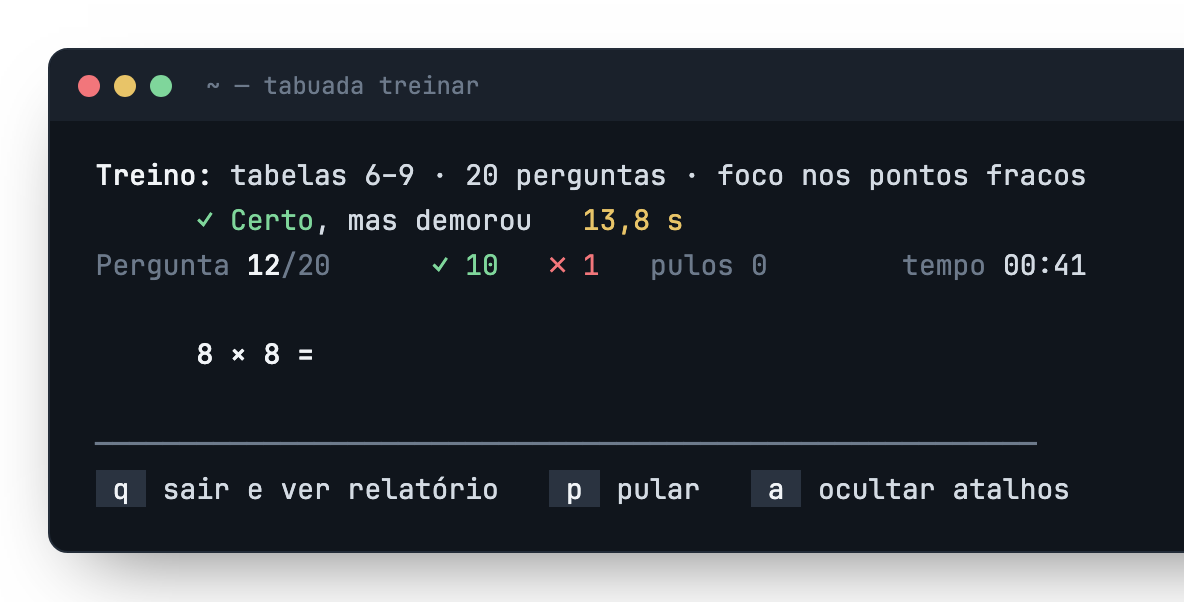
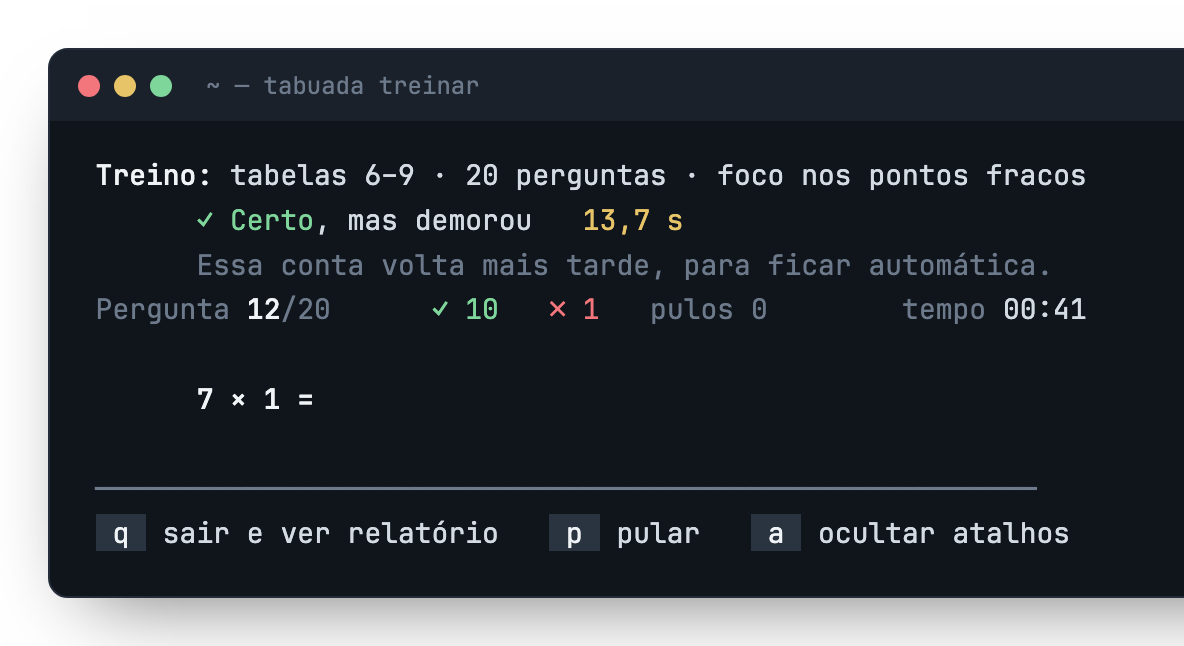
docs: explicar nota por tempo e repetição espaçada
- README.md: nova seção "Como o tabuada decide o que repetir" com as notas e as caixas de revisão; textos de feedback, stats, fracos e --foco atualizados
- CLAUDE.md: regra de que tempo pesa tanto quanto acerto e papel de grade/memory/review_weights no drill.py
- docs/img/: prints regenerados com a grade de domínio, a nova tela de fracos e a ajuda atual

diff --git a/README.md b/README.md
@@ -5,8 +5,8 @@ Treino de tabuada até 12×12 no terminal, com relatório de cada sessão e hist
 ![Menu inicial do tabuada no terminal](docs/img/menu.png)
 
 - **Mede o tempo de cada resposta**, para mostrar as contas que você acerta mas ainda demora.
-- **Contas erradas voltam** 3 a 5 perguntas depois.
-- **`--foco`** faz as contas que você mais erra ou demora aparecerem mais.
+- **Acertar rápido vale mais que acertar pensando:** até 2 s é automático, de 2 a 4 s você hesitou, acima de 4 s teve que pensar.
+- **Repetição espaçada:** conta errada volta 3 a 5 perguntas depois, conta que você pensou para acertar volta mais tarde, e a automática quase não se repete. Com **`--foco`**, cada conta volta no dia em que está na hora de revisar.
 - **Dois jeitos de usar:** um menu que guia passo a passo, para quem nunca usou terminal, e comandos diretos para quem já sabe o que quer.
 - Funciona em **macOS, Linux e Windows**. Precisa só do Python 3.8 ou mais novo, sem nenhuma outra dependência.
 
@@ -21,6 +21,7 @@ Treino de tabuada até 12×12 no terminal, com relatório de cada sessão e hist
 - [Durante a sessão](#durante-a-sessão)
 - [Relatório](#relatório)
 - [Histórico, estatísticas e pontos fracos](#histórico-estatísticas-e-pontos-fracos)
+- [Como o tabuada decide o que repetir](#como-o-tabuada-decide-o-que-repetir)
 - [Comandos](#comandos)
 - [No navegador](#no-navegador)
 - [Aparência no terminal](#aparência-no-terminal)
@@ -150,7 +151,7 @@ A opção **1** abre um assistente com quatro perguntas:
 - **Quais tabelas?** `todas`, uma lista (`6,7,8`) ou uma faixa (`2-9`).
 - **Como treinar?** Um número fixo de perguntas ou contra-relógio (responder o máximo que der num tempo).
 - **Quantas perguntas** (ou quantos segundos).
-- **Focar nos pontos fracos?** Com `s`, as contas que você mais erra ou demora aparecem mais.
+- **Focar nos pontos fracos?** Com `s`, o sorteio segue a [repetição espaçada](#como-o-tabuada-decide-o-que-repetir): aparecem mais as contas com revisão vencida.
 
 Se você digitar algo inválido, ele explica o formato e pergunta de novo. No fim, mostra o **comando equivalente**, para você pular o menu da próxima vez:
 
@@ -174,7 +175,7 @@ Depois de cada resposta, a linha de cima mostra como foi e quanto tempo levou:
 | Acertou, mas demorou | Errou | Pulou |
 |---|---|---|
 | ![Certo, mas demorou](docs/img/feedback-lento.png) | ![Errou](docs/img/feedback-erro.png) | ![Pulou](docs/img/feedback-pulo.png) |
-| Tempo em amarelo quando passa de 2× a sua mediana na sessão. | Mostra a conta certa. Ela volta daqui a 3 a 5 perguntas. | Mostra a resposta. A conta também volta. |
+| Tempo em amarelo acima de 4 s. A conta volta mais tarde na sessão (6 a 9 perguntas depois). | Mostra a conta certa. Ela volta daqui a 3 a 5 perguntas. | Mostra a resposta. A conta também volta. |
 
 ### 4. Veja o relatório
 
@@ -259,19 +260,44 @@ Mostra as 10 últimas; `tabuada historico --todas` lista todas.
 
 ### Estatísticas — menu 4 ou `tabuada stats`
 
-A grade 12×12 mostra de relance onde estão os buracos: cada quadrado é uma conta, colorido pelo seu acerto em todas as sessões. `7 × 8` e `8 × 7` contam como a mesma conta, por isso a grade é simétrica. Embaixo, a evolução do acerto e do tempo nas últimas sessões, a melhor e a pior tabela e há quantos dias você treina seguido.
+A grade 12×12 mostra de relance onde estão os buracos: cada quadrado é uma conta, colorido pelo **domínio**, que junta acerto e tempo: como você costuma responder nas últimas 3 vezes (até 2 s, 2 a 4 s, mais de 4 s ou errando). `7 × 8` e `8 × 7` contam como a mesma conta, por isso a grade é simétrica. Embaixo, a evolução do acerto e do tempo nas últimas sessões, a melhor e a pior tabela e há quantos dias você treina seguido.
 
 ![Estatísticas](docs/img/stats.png)
 
-`tabuada stats --tempo` colore a grade pelo tempo médio em vez do acerto.
+`tabuada stats --tempo` colore a grade só pelo tempo médio.
 
 ### Pontos fracos — menu 5 ou `tabuada fracos`
 
-As contas que mais atrapalham, somando todas as sessões. A coluna *Motivo* diz se o problema é **errar**, **demorar** ou os dois. Termina com o comando que treina essas contas.
+As contas que ainda não são automáticas, da pior para a melhor. O *Motivo* diz se você **erra**, **pensa** (acerta em mais de 4 s) ou **hesita** (2 a 4 s), e a *Revisão* diz quando a repetição espaçada vai trazer a conta de volta. Termina com o comando que treina as contas com revisão vencida.
 
 ![Pontos fracos](docs/img/fracos.png)
 
 `tabuada fracos -n 20` mostra mais contas.
+
+## Como o tabuada decide o que repetir
+
+Cada resposta recebe uma nota pelo acerto **e** pelo tempo:
+
+| Nota | Quando |
+|---|---|
+| automática | acertou em até 2 s: você lembrou, não calculou |
+| hesitou | acertou entre 2 e 4 s |
+| pensou | acertou em mais de 4 s: sabe, mas ainda calcula |
+| errou | errou ou pulou |
+
+**Na sessão**, a nota decide a repescagem: a errada volta 3 a 5 perguntas depois, a pensada volta 6 a 9 perguntas depois, a hesitada aparece menos e a automática quase não se repete.
+
+**Entre sessões**, com `--foco`, vale a [repetição espaçada](https://pt.wikipedia.org/wiki/Repeti%C3%A7%C3%A3o_espa%C3%A7ada) (caixas de Leitner). Cada conta está numa caixa, e cada caixa tem um intervalo até a próxima revisão:
+
+| Caixa | 0 | 1 | 2 | 3 | 4 | 5 |
+|---|---|---|---|---|---|---|
+| Revisar depois de | na hora | 10 min | 1 dia | 3 dias | 7 dias | 21 dias |
+
+- Automática **com a revisão vencida**: sobe uma caixa. Rever antes da hora não sobe, então repetir a mesma conta muitas vezes no mesmo dia não adianta.
+- Hesitou: fica no máximo na caixa 2. Pensou: volta para a caixa 1. Errou: volta para a 0.
+- No sorteio, contas com revisão vencida aparecem bem mais (quanto mais baixa a caixa, mais), contas nunca vistas entram no meio, e contas em dia quase não aparecem.
+
+Tudo é calculado a partir do histórico, então vale também para as sessões que você já fez.
 
 ## Comandos
 
@@ -281,7 +307,7 @@ Tudo o que o menu faz também tem um comando direto:
 tabuada                                 # menu interativo
 tabuada treinar                         # repete a última configuração
 tabuada treinar -n 30 --tabelas 7,8     # 30 perguntas das tabelas 7 e 8
-tabuada treinar --tabelas 2-9 --foco    # mais perguntas nos seus pontos fracos
+tabuada treinar --tabelas 2-9 --foco    # revisão espaçada: contas na hora de revisar
 tabuada treinar --tempo 120             # contra-relógio de 2 minutos
 tabuada treinar --min 6 --max 9         # segundo fator só de 6 a 9
 tabuada treinar --sem-historico         # treino que não fica salvo

diff --git a/CLAUDE.md b/CLAUDE.md
@@ -8,6 +8,7 @@ CLI em Python para treinar tabuada até 12×12, com relatório por sessão, hist
 - **Tudo tem dois caminhos:** menu interativo (`tabuada` sem argumentos) e flags. Funcionalidade nova entra nos dois, e o menu/assistente mostra o comando equivalente para ensinar as flags.
 - **Texto da interface em português do Brasil**, números com vírgula decimal (`5,8 s`).
 - **Resposta sem Enter:** na sessão, a resposta vai sozinha quando é a certa ou já tem o máximo de dígitos da conta (`drill.answer_complete`: dígitos de a + dígitos de b); Enter manda respostas mais curtas. `q`, `p` e `a` agem na hora. No terminal isso usa leitura tecla a tecla (`term.keys`/`read_key`: termios ou msvcrt); sem TTY, cai no `input()` com Enter.
+- **Tempo pesa tanto quanto acerto:** acerto até 2 s é automático, 2–4 s hesitou, acima de 4 s pensou (`drill.FAST_MS`/`SLOW_MS`, absolutos, não relativos à mediana). Grade do `stats`, `fracos`, feedback "mas demorou", repescagem e `--foco` usam essa mesma nota. O que repetir segue repetição espaçada; não voltar a pesar só erro/acerto.
 - **O tempo de cada resposta é sempre gravado**, em qualquer modo e sem limite. O tempo gasto apertando `a` (mostrar/ocultar atalhos) não conta.
 - **Relatório progressivo:** ao fim da sessão aparece só o resumo e a recomendação; os grupos (`t` tempo, `e` erros, `d` por tabela, `c` comparação, `x` tudo) abrem por tecla. Não voltar a despejar tudo de uma vez.
 - **A UI do mockup é a referência visual** (paleta em `term.PALETTE` e `web/app.css`). No terminal a fonte é a do usuário; o modo web traz a fonte JetBrains Mono e ícones SVG no pacote, sem requisições externas.
@@ -20,7 +21,7 @@ Lógica separada de entrada/saída, para o terminal e a web usarem as mesmas reg
 
 | Arquivo | Papel |
 |---|---|
-| `tabuada/drill.py` | Regras sem I/O: `Config`, `parse_tabelas`, sorteio (`Drill`), reforço de erros (volta em 3–5 perguntas), pesos do `--foco`, `parse_answer` |
+| `tabuada/drill.py` | Regras sem I/O: `Config`, `parse_tabelas`, sorteio (`Drill`), nota por resposta (`grade`: errou / >4 s / 2–4 s / ≤2 s), repescagem na sessão pela nota, repetição espaçada entre sessões (`memory`: caixas de Leitner, `review_weights` do `--foco`), `parse_answer` |
 | `tabuada/report.py` | Cálculos puros que devolvem dicts serializáveis: relatório da sessão (`build`), histórico, `stats`, `weak_facts`, `day_streaks` |
 | `tabuada/render.py` | Transforma esses dicts em linhas de terminal |
 | `tabuada/term.py` | Cores ANSI (truecolor ou 16 cores), ativação de VT no Windows via `ctypes`, fallback ASCII (`_AsciiWriter`) |
